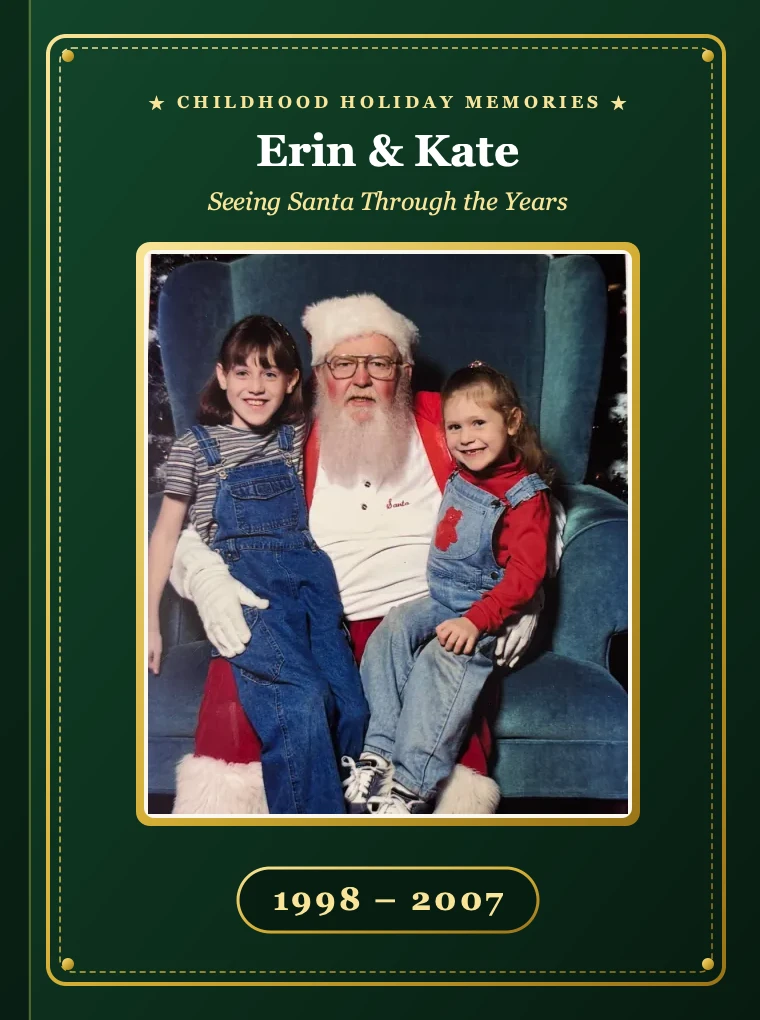
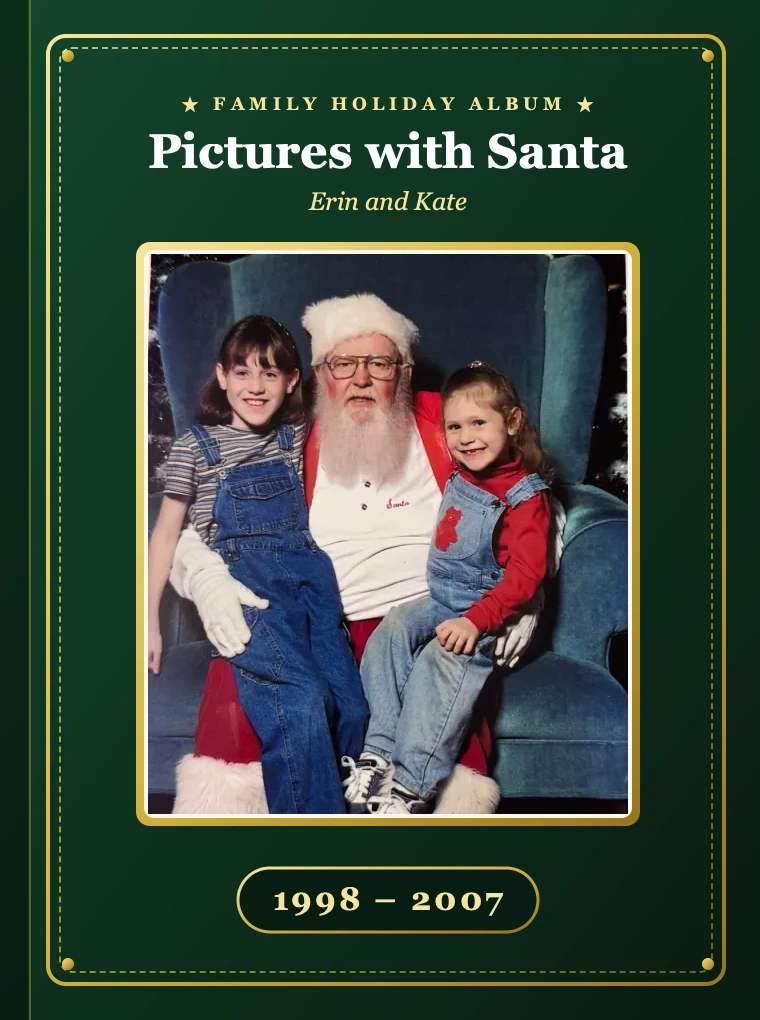
Rename both Santa albums to 'Pictures with Santa' with kids listed on second line

Changed region(s): [[0.1816, 0.0912, 0.8171, 0.2127]]

diff --git a/src/App.jsx b/src/App.jsx
@@ -30,10 +30,10 @@ import SantaScrapbookView, {
 const INITIAL_BOOKS = [
   {
     id: 'album_santa',
-    title: 'Pictures with Santa (2012–2025)',
-    author: 'Agan Family Scrapbook',
+    title: 'Pictures with Santa',
+    author: 'Rowan, Elouise, Solomon, Maeve, and Atley',
     category: 'album',
-    cover: '/covers/santa-scrapbook-cover.webp?v=2',
+    cover: '/covers/santa-scrapbook-cover.webp?v=3',
     notes: '14 years of family Santa photos in chronological order (2012–2025) with festive borders, years, handwritten notes & bonus holiday snapshots! 🎅✨',
     pages: SANTA_SCRAPBOOK_PAGES.map((p, idx) => ({
       id: `santa_page_${p.year}`,
@@ -44,10 +44,10 @@ const INITIAL_BOOKS = [
   },
   {
     id: 'album_erin_kate_santa',
-    title: 'Erin & Kate Seeing Santa (1998–2007)',
-    author: 'Childhood Christmas Album',
+    title: 'Pictures with Santa',
+    author: 'Erin and Kate',
     category: 'album',
-    cover: '/covers/erin-kate-santa-cover.webp?v=1',
+    cover: '/covers/erin-kate-santa-cover.webp?v=2',
     notes: '10 years of childhood Christmas memories of Erin & her sister Kate visiting Santa at Traverse City Mall (1998–2007), complete with handwritten Kodak photo backs! 🎄🎅',
     pages: ERIN_KATE_SANTA_PAGES.map((p, idx) => ({
       id: `erin_kate_santa_${p.year}`,
@@ -1246,7 +1246,9 @@ export default function App() {
   const compareBookTitles = (a, b) => {
     const cleanA = (a?.title || '').replace(/^[^a-zA-Z0-9]+/, '').trim();
     const cleanB = (b?.title || '').replace(/^[^a-zA-Z0-9]+/, '').trim();
-    return cleanA.localeCompare(cleanB, undefined, { numeric: true, sensitivity: 'base' });
+    const titleCmp = cleanA.localeCompare(cleanB, undefined, { numeric: true, sensitivity: 'base' });
+    if (titleCmp !== 0) return titleCmp;
+    return (a?.author || '').localeCompare(b?.author || '', undefined, { numeric: true, sensitivity: 'base' });
   };
 
   const upgradeBuiltInBooks = (list) => {
@@ -1950,7 +1952,11 @@ export default function App() {
 
                           <div className="flex items-center justify-center md:justify-start gap-2.5 mb-4">
                             <p className="text-stone-300 text-sm sm:text-base font-sans font-medium">
-                              By <span className="text-amber-200">{selectedBook.author || 'Unknown'}</span>
+                              {selectedBook.category === 'album' ? (
+                                <span className="text-amber-200">{selectedBook.author}</span>
+                              ) : (
+                                <>By <span className="text-amber-200">{selectedBook.author || 'Unknown'}</span></>
+                              )}
                             </p>
                             <button
                               onClick={() => setIsEditingBook(true)}
@@ -2278,6 +2284,10 @@ export default function App() {
       <AnimatePresence>
         {isSantaScrapbookOpen && (
           <SantaScrapbookView
+            albumTitle="Pictures with Santa"
+            albumKids="Rowan, Elouise, Solomon, Maeve, and Atley"
+            albumSubtitle="Rowan, Elouise, Solomon, Maeve, and Atley • 2012 – 2025"
+            kickerText="✦ Agan Family Holiday Keepsake ✦"
             onClose={() => {
               setIsSantaScrapbookOpen(false);
               setActiveFilter('all');
@@ -2294,8 +2304,9 @@ export default function App() {
         {isErinKateAlbumOpen && (
           <SantaScrapbookView
             pages={ERIN_KATE_SANTA_PAGES}
-            albumTitle="Erin & Kate Seeing Santa (1998–2007)"
-            albumSubtitle="1998 – 2007 • Traverse City Mall Childhood Christmas Memories"
+            albumTitle="Pictures with Santa"
+            albumKids="Erin and Kate"
+            albumSubtitle="Erin and Kate • 1998 – 2007 • Traverse City Mall"
             kickerText="✦ Childhood Holiday Keepsake ✦"
             coverTheme="evergreen"
             onClose={() => {

diff --git a/src/components/SantaScrapbookView.jsx b/src/components/SantaScrapbookView.jsx
@@ -584,8 +584,9 @@ function ScrapbookSpread({ page, pageIndex, totalPages, onZoom }) {
 export default function SantaScrapbookView({
   onClose,
   pages = SANTA_SCRAPBOOK_PAGES,
-  albumTitle = 'Pictures with Santa (2012–2025)',
-  albumSubtitle = '2012 – 2025 • In Chronological Order with Bonus Family Memories',
+  albumTitle = 'Pictures with Santa',
+  albumKids = 'Rowan, Elouise, Solomon, Maeve, and Atley',
+  albumSubtitle = 'Rowan, Elouise, Solomon, Maeve, and Atley • 2012 – 2025',
   kickerText = '✦ Agan Family Holiday Keepsake ✦',
   coverTheme = 'crimson',
 }) {
@@ -685,10 +686,15 @@ export default function SantaScrapbookView({
             </button>
             <div className="hidden sm:block h-4 w-px bg-stone-800" />
             <div>
-              <h1 className="text-sm sm:text-base font-serif font-bold text-amber-100 flex items-center gap-1.5">
+              <h1 className="text-sm sm:text-base font-serif font-bold text-amber-100 flex items-center gap-1.5 leading-tight">
                 <span>🎅</span>
                 <span>{albumTitle}</span>
               </h1>
+              {albumKids && (
+                <p className="text-[11px] font-serif italic text-amber-200/80 leading-tight pl-5">
+                  {albumKids}
+                </p>
+              )}
             </div>
           </div>
 

diff --git a/src/components/CoverGalleryView.jsx b/src/components/CoverGalleryView.jsx
@@ -130,11 +130,11 @@ export default function CoverGalleryView({ books = [], onSelectBook, onAddBook, 
                 )}
               </div>
 
-              {/* Title & Author */}
-              <h3 className="mt-3 text-xs font-serif font-bold text-amber-100 text-center line-clamp-1 max-w-[155px] group-hover:text-amber-300 transition">
+              {/* Title & Author / Kids Line */}
+              <h3 className="mt-3 text-xs font-serif font-bold text-amber-100 text-center line-clamp-1 max-w-[165px] group-hover:text-amber-300 transition">
                 {book.title}
               </h3>
-              <p className="text-[11px] text-amber-200/50 text-center line-clamp-1">
+              <p className="text-[11px] text-amber-200/65 text-center line-clamp-2 max-w-[165px] leading-snug">
                 {book.author || 'Unknown'}
               </p>
 

diff --git a/src/components/ListView.jsx b/src/components/ListView.jsx
@@ -99,7 +99,9 @@ export default function ListView({ books = [], onSelectBook, onDeleteBook, activ
                       </span>
                     )}
                   </div>
-                  <p className="text-xs text-amber-200/60 font-sans">By {book.author || 'Unknown'}</p>
+                  <p className="text-xs text-amber-200/60 font-sans">
+                    {book.category === 'album' ? book.author : `By ${book.author || 'Unknown'}`}
+                  </p>
                   {book.notes && (
                     <p className="text-[11px] text-amber-300/80 italic mt-1 font-serif line-clamp-2">"{book.notes}"</p>
                   )}
